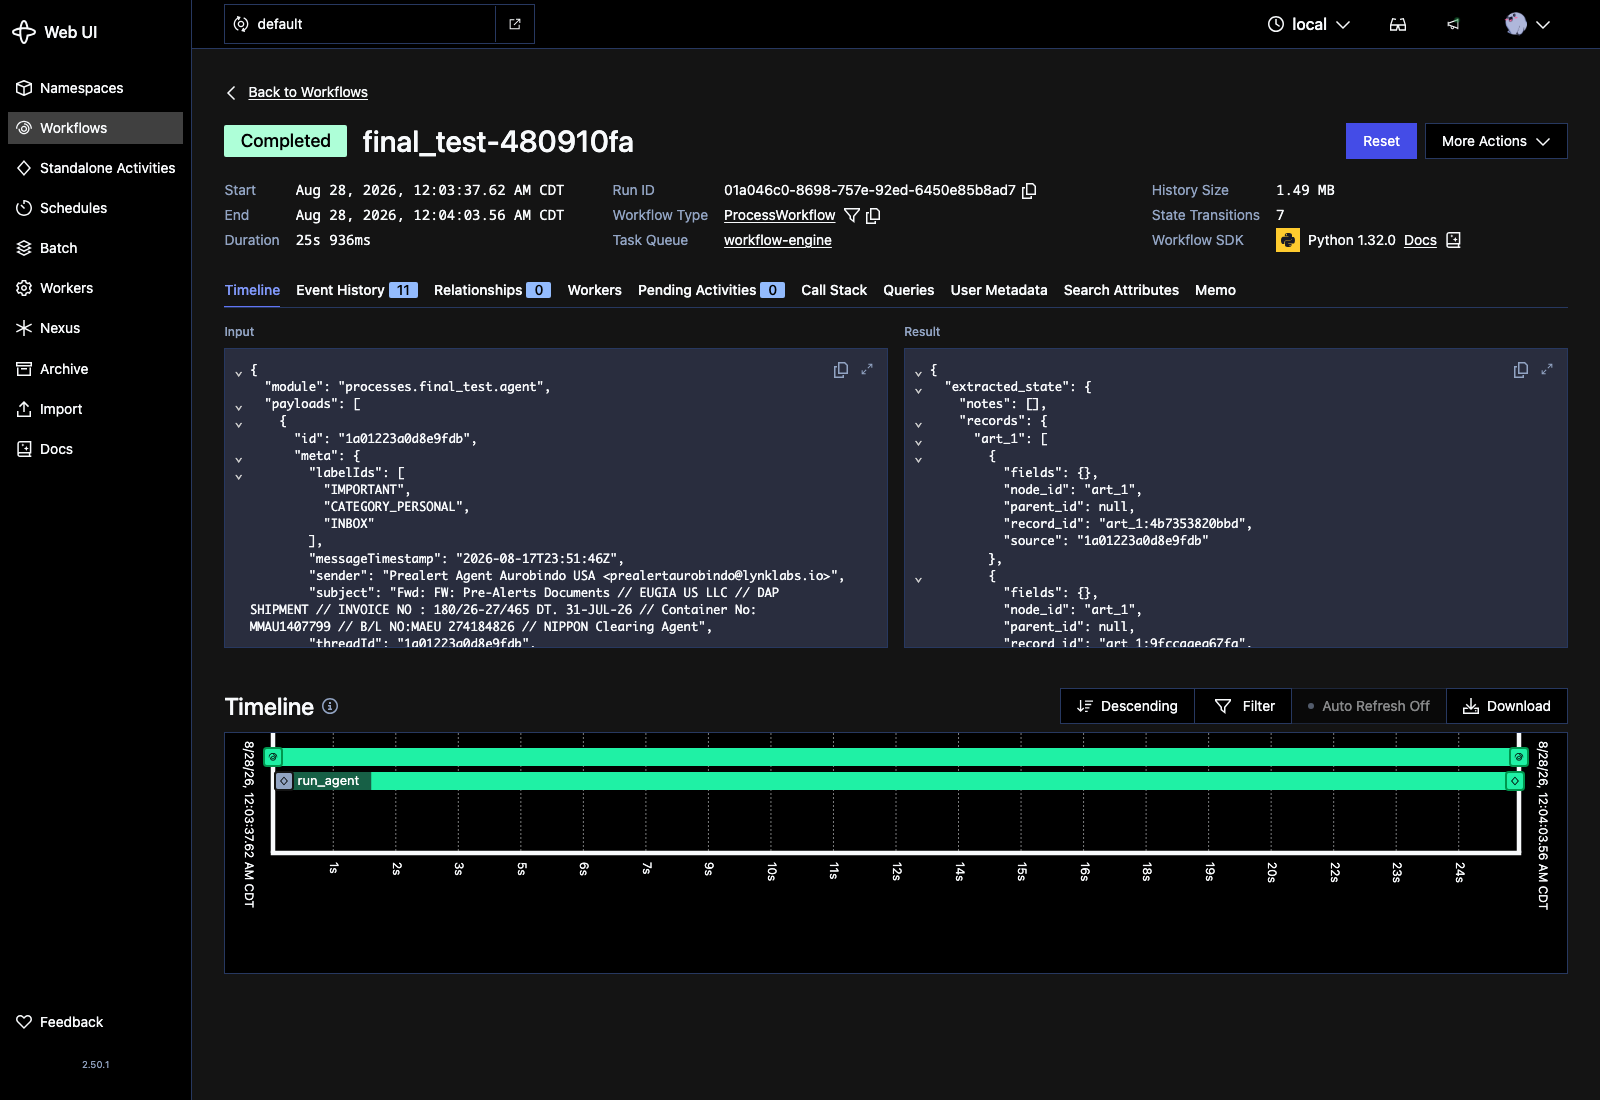
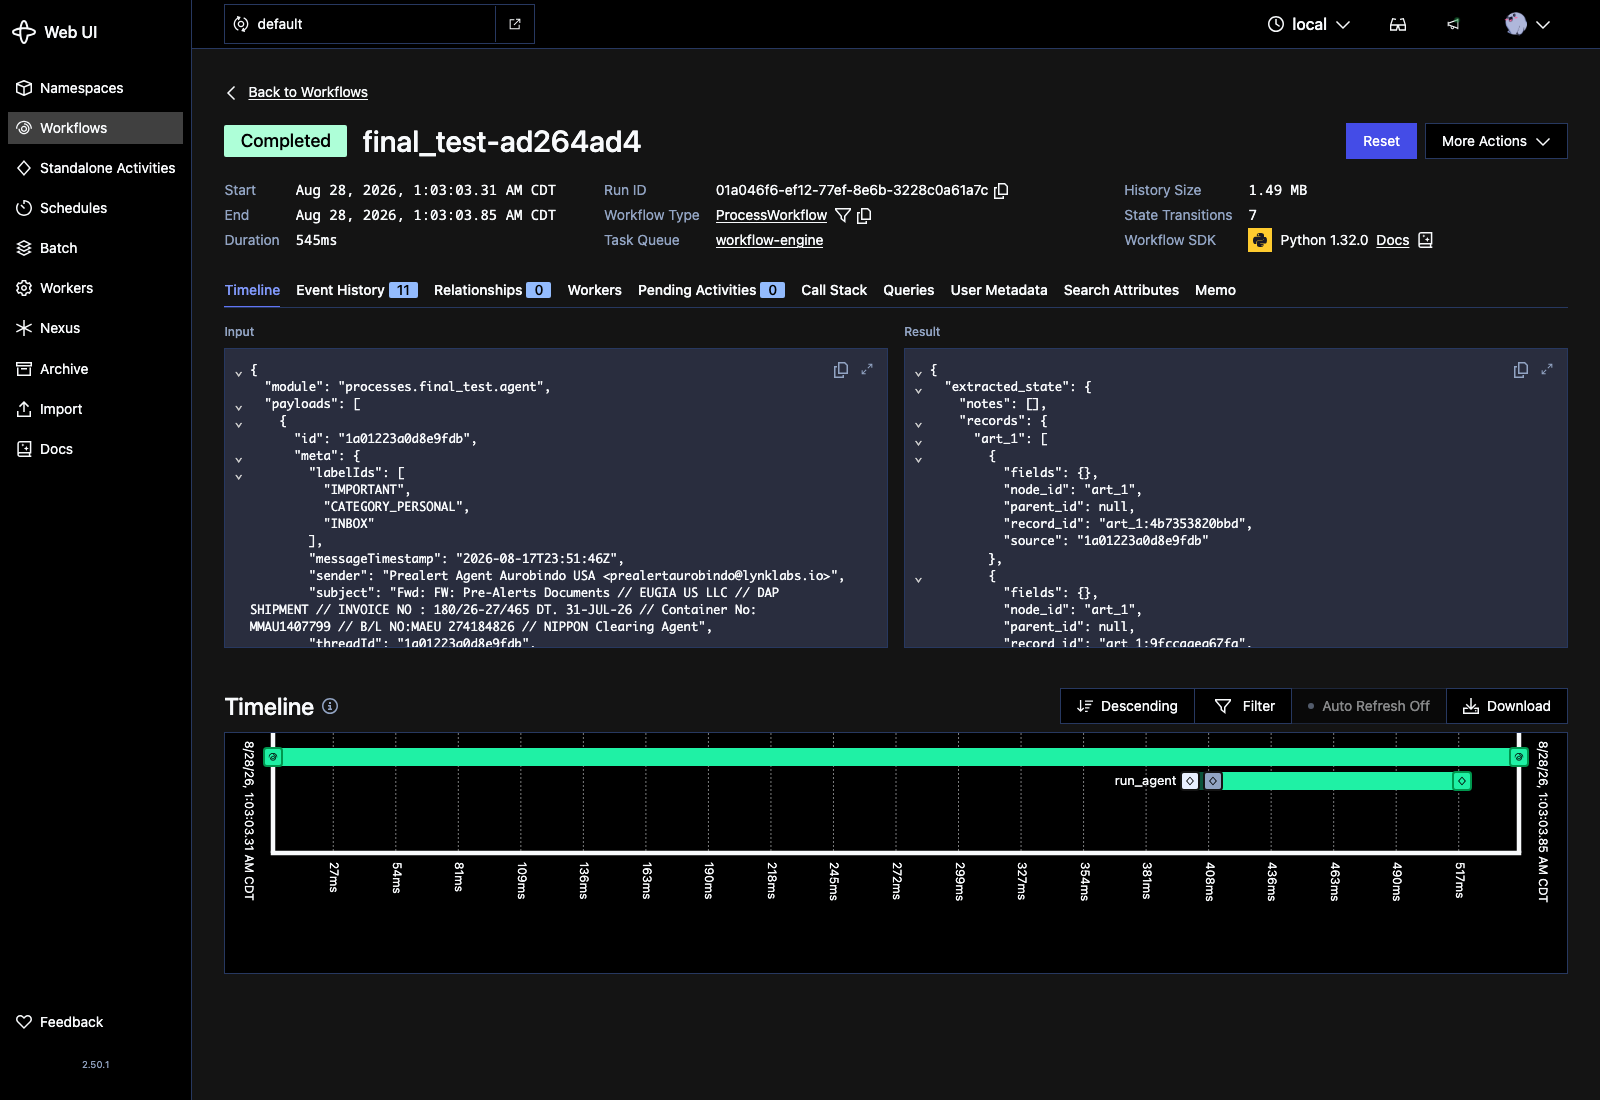
demo: full end-to-end run verified; fetch now replaces its snapshot
Ran the whole cli path against final_test: specs, pull, fetch --live, gen, diff,
eval, /heal-agent, eval, run. Every step green.

- fetch clears the previous snapshot for the channel before writing. Without it
  a re-fetch against a changed inbox left stale payloads on disk under names the
  new run never writes, and the eval silently scored a mixture of two snapshots.
- .claude/skills/ symlinks both skills into the location Claude Code discovers,
  so /heal-agent is actually invocable from a session in this repo. Symlinks
  rather than copies: two divergent versions of a skill, one silently winning,
  is a debugging session nobody needs.

The loop reproduced exactly. Baseline 3/12, heal pass 2 classified the same nine
failures and patched the same single line, 4/12 after. The heal skill reached
the same root cause independently from the report alone, and independently
declined to patch the four spec-level causes.

Temporal screenshot refreshed to the current execution.

diff --git a/processes/final_test/agent/agent.py b/processes/final_test/agent/agent.py
@@ -24,8 +24,6 @@ from runtime.spec import Spec
 from runtime.state import RunState
 
 
-
-
 def run(payloads: list[dict[str, Any]], spec_path: str) -> dict[str, Any]:
     spec = Spec.load(spec_path)
     state = RunState()
@@ -121,12 +119,17 @@ def run(payloads: list[dict[str, Any]], spec_path: str) -> dict[str, Any]:
             # `squash` rather than exact equality: the two sides are transcribed
             # from different documents. The comparison is passed into the
             # relation, so the engine's definition of a match is untouched.
-            _ok = relations.exists_matching(_subject, _candidates, key=squash)
+            # The batch is modelled as a *field* on the invoice, so a one-to-many
+            # relationship is flattened into one comma-joined string. Split it
+            # back into its real values and require each to match a CoA; the
+            # split and the comparison are both passed in as data, so the
+            # relation is unchanged and this stays inside the process.
+            _parts = [_p for _p in str(_subject).split(",") if _p.strip()]
+            _ok = all(relations.exists_matching(_p, _candidates, key=squash) for _p in _parts)
         state.verdict("pol_2", "art_2", _record, _ok, f"exists_matching on {_candidate_path}")
 
     # ── out_1 (output) ─────────────────────────────────────────────
     OUTPUT_NODE = "out_1"
-
     return {
         "outputs": outputs.rows(state, spec.config(OUTPUT_NODE).get("rows", [])),
         "extracted_state": state.extracted(),

diff --git a/cli/fetch.py b/cli/fetch.py
@@ -59,6 +59,17 @@ def fetch(
         config = spec.config(channel_id)
         channel = registry.resolve(config["tool"])
         match = config.get("match")
+
+        # A snapshot replaces; it does not accumulate. Without this, a re-fetch
+        # against a changed inbox leaves the previous run's payloads on disk
+        # under names the new run never writes, and the eval silently scores a
+        # mixture of two snapshots. Clearing only this channel's files keeps a
+        # multi-channel process's other snapshots intact.
+        stale = sorted(out_dir.glob(f"{channel_id}-*.json"))
+        for path in stale:
+            path.unlink()
+        if stale:
+            print(f"{channel_id}: cleared {len(stale)} payload(s) from the previous snapshot")
         if query is not None:
             print(f"{channel_id}: OVERRIDING the board's match for this snapshot only")
             print(f"    board: {match!r}")

diff --git a/processes/final_test/heal-log.md b/processes/final_test/heal-log.md
@@ -136,3 +136,85 @@ The durable answers, none built yet, are listed in
 [docs/blocks-6-9.md](../../docs/blocks-6-9.md#healing-and-regeneration-are-in-tension-and-nothing-resolves-it-yet).
 Until one exists: **generate first, heal second, and never regenerate without
 re-reading this log.**
+
+
+---
+
+## Pass 2 — reapply the multi-value split; everything else halted again
+
+**Starting score: 3/12** (2 scored passes `MNBU4371364`, `MMAU1407799`; 1
+discarded `MNBU0458316`). New score left blank for the human to fill on re-run.
+
+This pass reads the current `reports/eval.json`, which is the post-regeneration
+report the note above predicted: `agent.py` no longer carries pass 1, so
+`MNBU4407370` is red again with `invoices_failed: 0 → 4`.
+
+### Classification of all nine failures
+
+Metric map: `invoices_total` = count of `art_2`; `invoices_failed/successful` =
+`pol_2` verdicts on `art_2`; `goods_failed` = `pol_1` verdicts on `art_4`;
+`coa_total` = count of `art_3`.
+
+| case | fx | signature | class |
+|---|---|---|---|
+| `MNBU4407370` | 1 | records exact (7/12); only `invoices_failed 0→4` | **logic-failure** — fixable in boundary |
+| `HLBU6302759` | 1 | `coa 9=9` exact; `invoices_total 3→14`; `invoices_failed 0→2` | mixed: `invoices_failed` is the same logic-failure; `invoices_total` is extraction |
+| `MCAU6047165` | 1 | `coa 14=14` exact; `invoices_total 11→18`; `invoices_failed 0→18` | mixed: `invoices_failed` is the logic-failure; `invoices_total` is extraction |
+| `CAAU4056270` | 2 | `coa 5→10` (doubled); `invoices 1→9` | **extraction-failure** — spec-level |
+| `MNBU3974949` | 2 | `coa 17→34` (doubled); `invoices 1→38` | **extraction-failure** — spec-level |
+| `CGMU5630052` | 2 | `coa 3→6` (doubled); `invoices 1→6`; `goods_failed 0→9` | **extraction-failure** — spec-level |
+| `TTNU8982561` | 1 | `invoices 2→9`; `coa 7→9` | **extraction-failure** — spec-level |
+| `MNBU3852977` | 1 | `coa 6=6` exact; `invoices 3→6`; `invoices_failed 3→0`; `goods_failed 6→4` | **extraction-failure** + missing propagation — spec-level |
+| `020-07721814` | 1 | `coa 4→3` (under-extraction); `invoices 3→4`; `invoices_failed 0→1` | **extraction-failure** — spec-level |
+
+### Root cause per case, in one line
+
+- `MNBU4407370` — every `art_2` record extracted exactly (7) and every `art_3`
+  exactly (12); the four invoices marked failed are precisely the four whose
+  `Batch Number` is a comma-joined multi-value string (`"FMB226006A,
+  FMB226007A"` etc.), and `exists_matching` compared the whole joined string to
+  a single CoA number, which can never match. This is the only pure
+  logic-failure and it is fixable in the boundary.
+- `HLBU6302759` / `MCAU6047165` — `coa_total` matches exactly, so `art_3` is
+  right; the `invoices_failed` discrepancy is the same joined-string bug, so the
+  split below removes it. Their `invoices_total` over-count is a separate
+  extraction cause (below) and is *not* fixed here.
+- `CAAU4056270`, `MNBU3974949`, `CGMU5630052` (all 2 fixtures) — `coa_total` is
+  exactly doubled and the two fixtures carry the *same* invoice number; nothing
+  deduplicates because `compiled.identity_merges` is empty and `art_2` has no
+  `identity_key`. Extraction is faithfully returning both copies.
+- `TTNU8982561`, `MNBU3852977`, `020-07721814` — single fixture, yet `art_2`
+  count exceeds the invoice count because the batch is modelled as a field on
+  the invoice: one `art_2` row is emitted per batch line rather than per
+  invoice. `020-07721814` additionally under-extracts one CoA (`coa 4→3`), and
+  `MNBU3852977` expects `invoices_failed: 3` that no run can produce because no
+  edge propagates a good's failure up to its invoice.
+
+### Diff — `pol_2` step of `processes/final_test/agent/agent.py`
+
+```diff
+-            _ok = relations.exists_matching(_subject, _candidates, key=squash)
++            _parts = [_p for _p in str(_subject).split(",") if _p.strip()]
++            _ok = all(relations.exists_matching(_p, _candidates, key=squash) for _p in _parts)
+```
+
+This is pass 1's fix, verbatim in behaviour. It is stricter, not wider — every
+real batch value must match a CoA — so it does not violate "never widen a
+comparison to make a case pass." `runtime/` is untouched; the split and the
+comparison are passed into the relation as data. Expected effect: `MNBU4407370`
+green; `HLBU6302759` and `MCAU6047165` lose their `invoices_failed` discrepancy
+(they stay red on `invoices_total`).
+
+### Halted again — the same four spec-level findings
+
+The eight remaining failures reduce to the four spec-level causes named in pass
+1 (no `identity_key` on `art_2`; batch modelled as a field not an artifact;
+`art_4` field names `ACDA/SDF/EDF` that appear in no document, so `present`
+always fails; no failure-propagation edge from `art_4` to `art_2`), plus the
+trailing-letter ambiguity (`UCB26009` vs `UCB26009A`) that needs a human ruling.
+None is patchable inside `processes/<id>/agent/` without inventing a rule the
+board never gave. **Next action is a review round and a re-freeze, not another
+heal pass.** Per the standing note above, whoever regenerates must re-read this
+log or the split will be discarded a third time.
+
+**Score after re-run: __ / 12** (human fills in).

diff --git a/.claude/README.md b/.claude/README.md
@@ -1,0 +1,10 @@
+# `.claude/`
+
+`skills/` symlinks the project's two skills into the location Claude Code
+discovers, so `/heal-agent` is invocable from a session in this repo. The skills
+themselves live in `skills/` at the root, because they are project artifacts
+rather than editor configuration — `cli gen` copies `spec-to-agent` into its
+sandbox from there, not from here.
+
+Symlinks rather than copies: two divergent versions of a skill, one of which
+silently wins, is a debugging session nobody needs.
